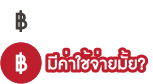
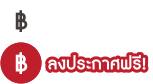
- change header publish page

Changed region(s): [[0.2876, 0.5476, 0.9935, 0.881]]

diff --git a/web/css/main.css b/web/css/main.css
@@ -154,8 +154,8 @@ select[disabled] { background-color: #EAEAEA !important; color:#BCBCBC !importan
 .detail ul#detail_containTab3 { list-style:none; padding:0; margin-top:0; width:100%;}
 .detail ul#detail_containTab3 li{ float:left; width:100%; margin-top: 10px; margin-left: 0px; height: 335px;}
 
-.detail #i_containTab3 ul#navi_containTab3 li#tabNavi7{ background:url(../images/pub.png) no-repeat; background-position:0 0; display:block;width:125px; }
-.detail #i_containTab3 ul#navi_containTab3 li#tabNavi8{ background:url(../images/pay.png) no-repeat; background-position:0 0; display:block;width:100px; }
+.detail #i_containTab3 ul#navi_containTab3 li#tabNavi7{ background:url(../images/pay.png) no-repeat; background-position:0 0; display:block;width:100px; }
+.detail #i_containTab3 ul#navi_containTab3 li#tabNavi8{ background:url(../images/pub.png) no-repeat; background-position:0 0; display:block;width:125px; }
 .detail #i_containTab3 ul#navi_containTab3 li#tabNavi9{ background:url(../images/package.png) no-repeat; background-position:0 0; display:block;width:100px; }
 
 /* class รูปแบบของแต่ละเนื้อหา */
@@ -163,8 +163,8 @@ select[disabled] { background-color: #EAEAEA !important; color:#BCBCBC !importan
 .detail .detailContent8{ display:none;}
 .detail .detailContent9{ display:none;}
 
-.detail #i_containTab3 ul#navi_containTab3 li#tabNavi7.active {background:url(../images/pub.png) no-repeat; background-position:0 -43px; display:block;}
-.detail #i_containTab3 ul#navi_containTab3 li#tabNavi8.active {background:url(../images/pay.png) no-repeat; background-position:0 -43px; display:block;}
+.detail #i_containTab3 ul#navi_containTab3 li#tabNavi7.active {background:url(../images/pay.png) no-repeat; background-position:0 -43px; display:block;}
+.detail #i_containTab3 ul#navi_containTab3 li#tabNavi8.active {background:url(../images/pub.png) no-repeat; background-position:0 -43px; display:block;}
 .detail #i_containTab3 ul#navi_containTab3 li#tabNavi9.active {background:url(../images/package.png) no-repeat; background-position:0 -43px; display:block;}
 
 /*Banner/Ads*/
